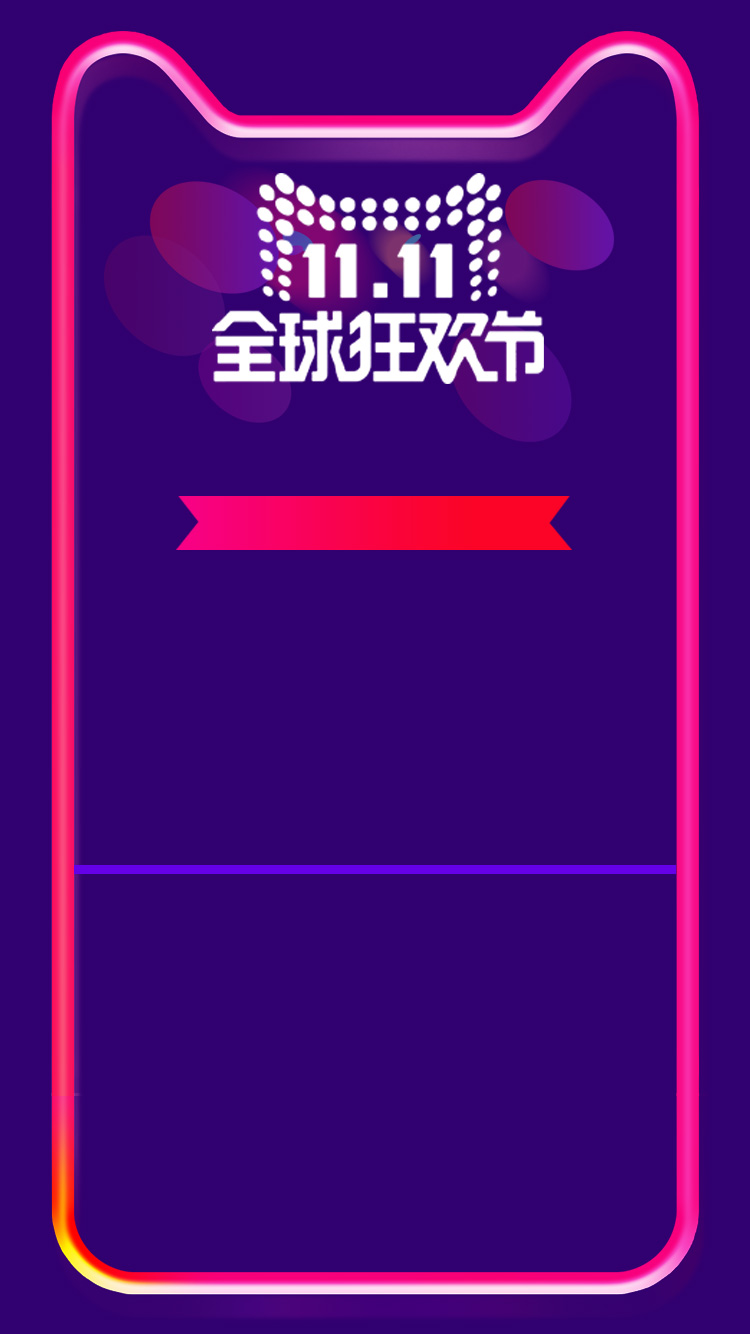
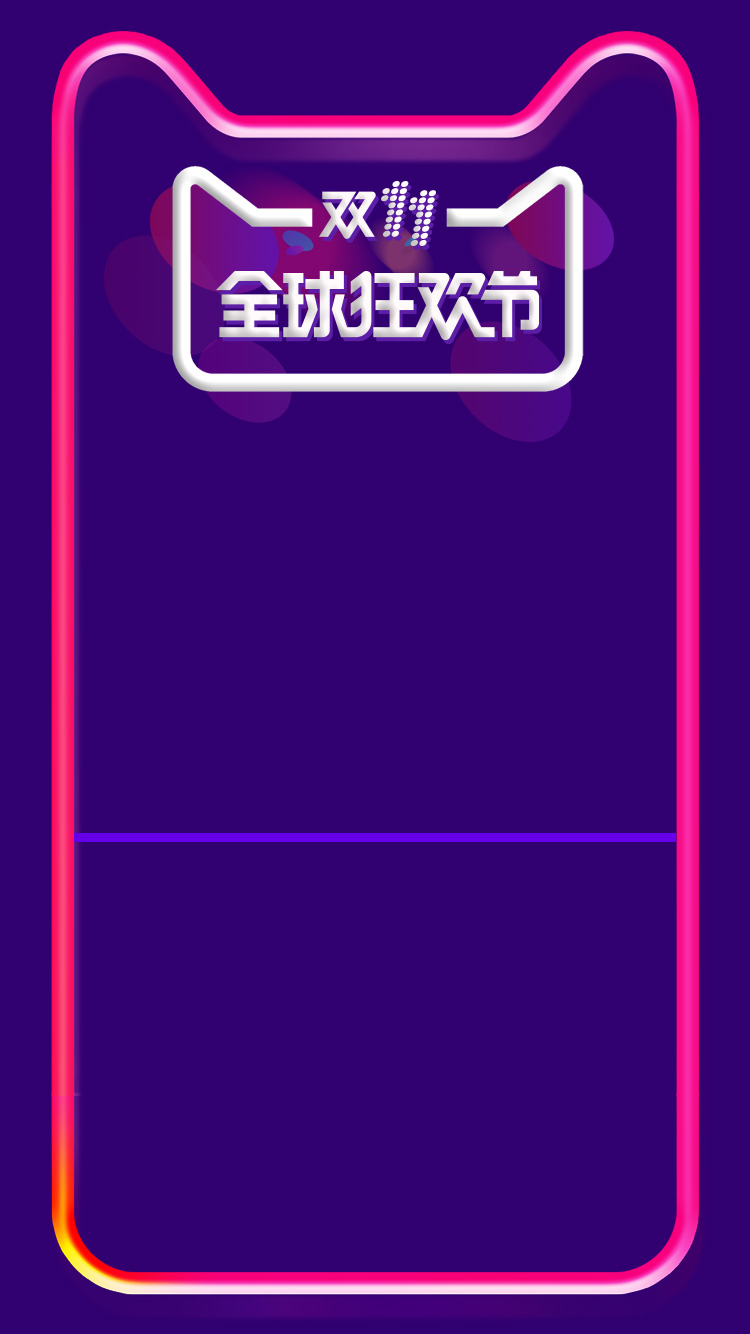
20161104 all done

Changed region(s): [[0.2147, 0.1229, 0.7973, 0.3073], [0.092, 0.6147, 0.8893, 0.6762], [0.2453, 0.3688, 0.7667, 0.4303]]

diff --git a/css/index20161104.css b/css/index20161104.css
@@ -128,7 +128,7 @@
 	margin-left: -260px;
 	font-size: 30px;
 	color: #FFF;
-	top: 383px;
+	top: 430px;
 	text-align: center;
 }
 
@@ -137,9 +137,9 @@
 	width: 320px;
 	left: 50%;
 	margin-left: -160px;
-	top: 502px;
-	color: #FFF;
-	font-size: 28px;
+	bottom: 83px;
+	color: #9f55ff;
+	font-size: 24px;
 	text-align: center;
 }
 
@@ -148,7 +148,7 @@
 	width: 614px;
 	left: 50%;
 	margin-left: -265px;
-	top: 545px;
+	top: 530px;
 }
 
 .hongbao_wrap .hw-num-wrap .hw-num{
@@ -168,7 +168,7 @@
 
 .hongbao_wrap .hw-red-pocket{
 	position: absolute;
-	top: 886px;
+	top: 866px;
 	left: 50%;
 	width: 618px;
 	margin-left: -309px;
@@ -238,4 +238,56 @@
 	border-radius: 40px;
 	top: 1226px;
 	opacity: 0.8;
+}
+
+.window-wrap{
+	position: fixed;
+	left: 0px;
+	top: 0px;
+	width: 100%;
+	height: 100%;
+}
+
+.window-wrap .window-mask{
+	position: absolute;
+	width: 100%;
+	height: 100%;
+	background: rgba(0,0,0,0.8);
+}
+
+.window-wrap .window-close{
+	position: absolute;
+	width: 70px;
+	height: 70px;
+	top: 200px;
+	right: 100px;
+	pointer-events: none;
+}
+
+.window-wrap .window-main{
+	position: absolute;
+	width: 494px;
+	height: 694px;
+	background: url('../imgs/20161104/window_bg.png') no-repeat center center;
+	left: 50%;
+	margin-left: -247px;
+	top: 250px;
+}
+
+.window-wrap .window-main .wm-show{
+	position: absolute;
+	width: 100%;
+	text-align: center;
+	left: 0px;
+	top: 500px;
+}
+
+.window-wrap .window-main .wm-show .mark{
+	font-size: 60px;
+	color: #fff75c;
+}
+
+.window-wrap .window-main .wm-show .num{
+	font-size: 100px;
+	color: #fff75c;
 }

diff --git a/20161104hongbao.html b/20161104hongbao.html
@@ -55,5 +55,22 @@
 				<a class="hw-rp" href="javascript:;"></a>
 			</div>
 		</div>
+		<!-- 红包弹窗 -->
+		<div class="window-wrap">
+			<div class="window-mask"></div>
+			<img class="window-close" src="./imgs/20161104/window_close.png" />
+			<div class="window-main">
+				<div class="wm-show"><span class="mark">￥</span><span class="num">1.21</span></div>
+			</div>
+		</div>
+		<!-- 红包弹窗end -->
+
+		<script>
+			$(function(){
+				$('.window-mask').on('tap',function(){
+					$('.window-wrap').addClass('hide');
+				})
+			})
+		</script>
 	</body>
 </html>
